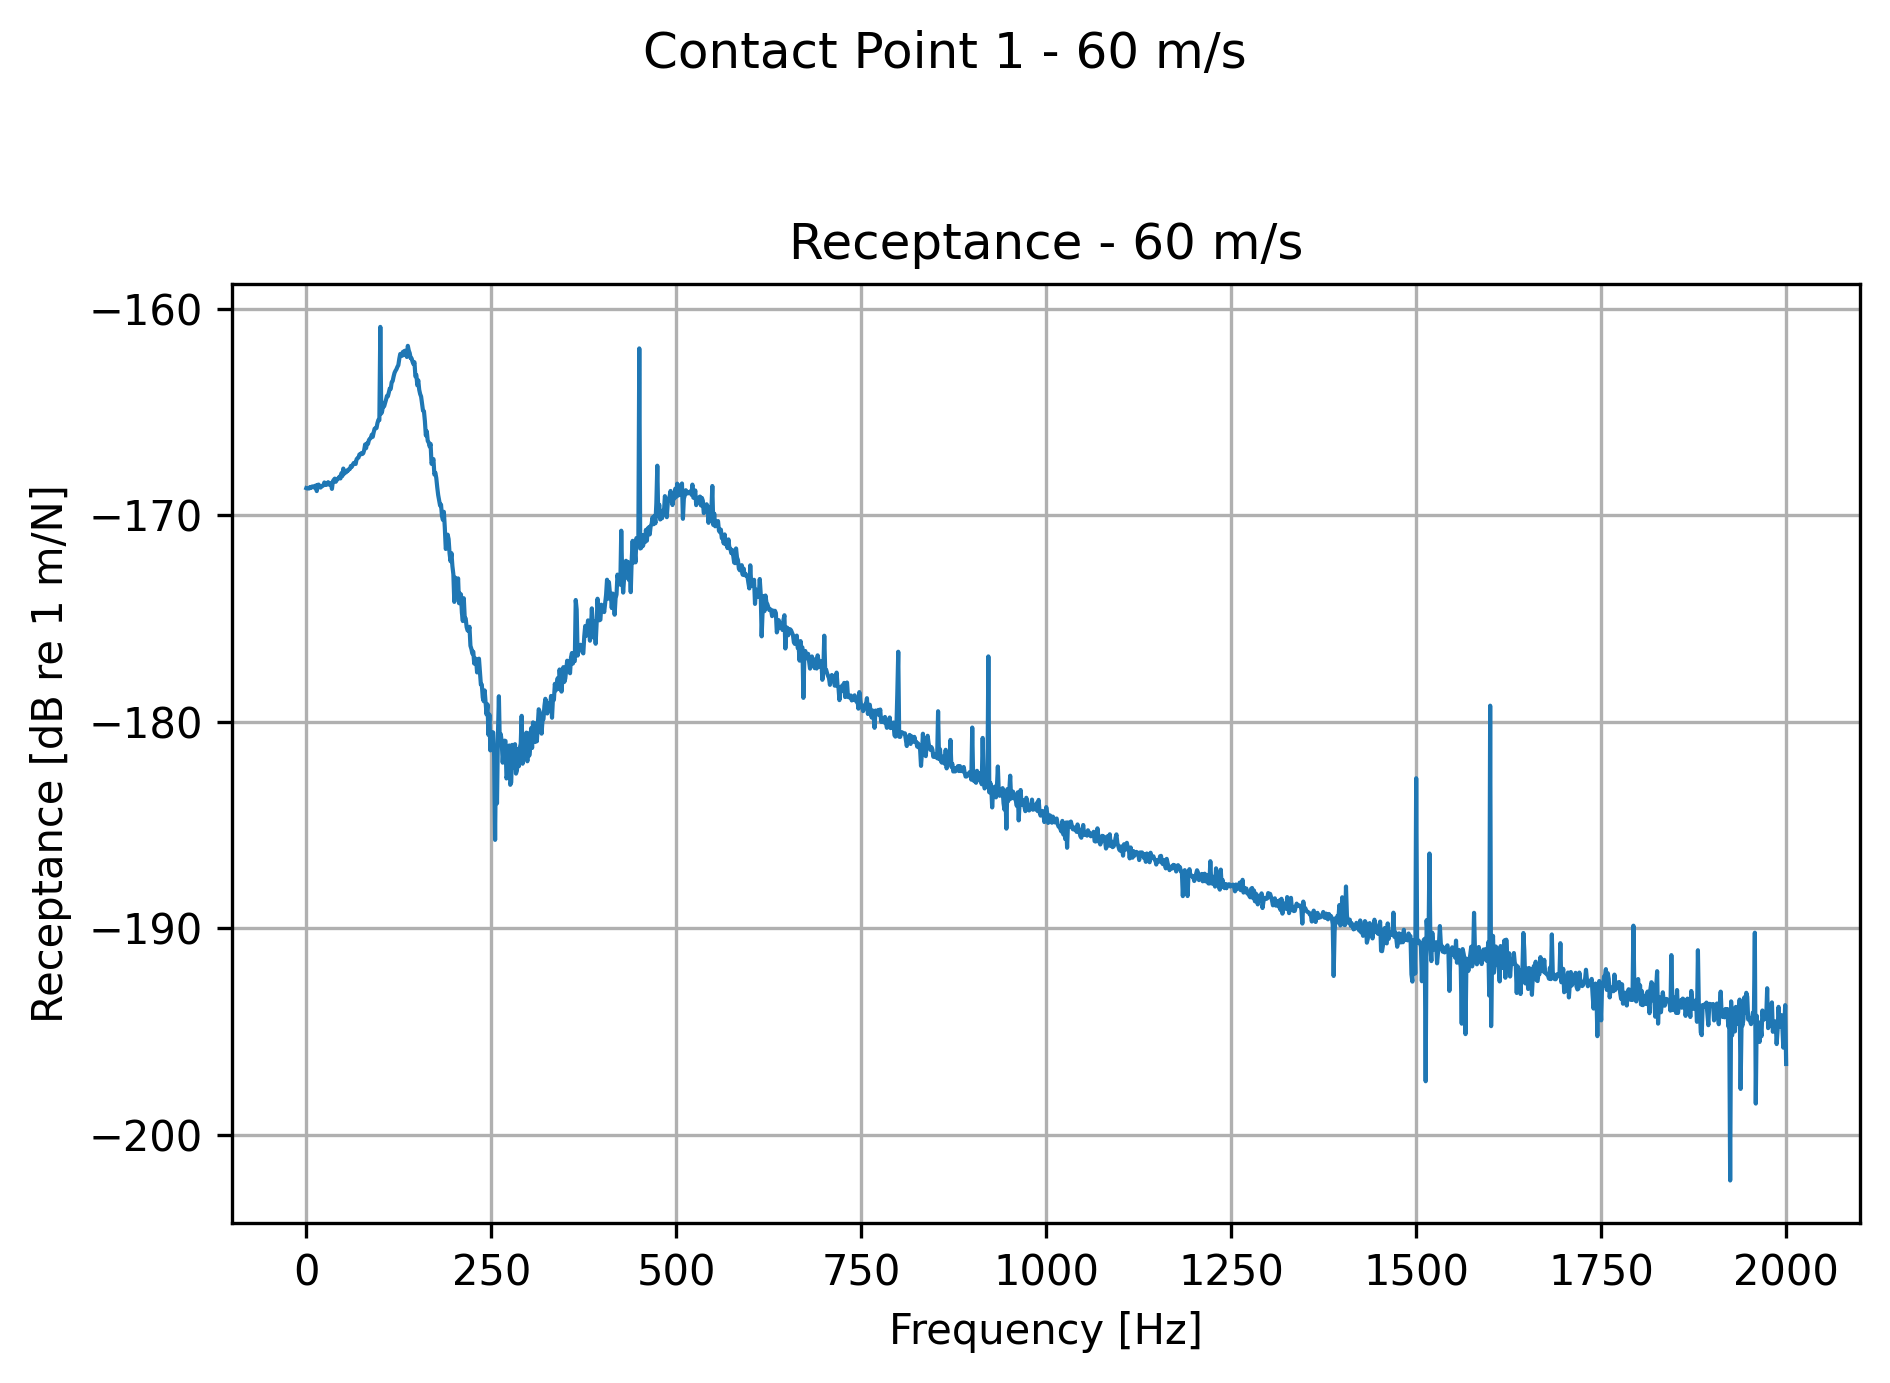
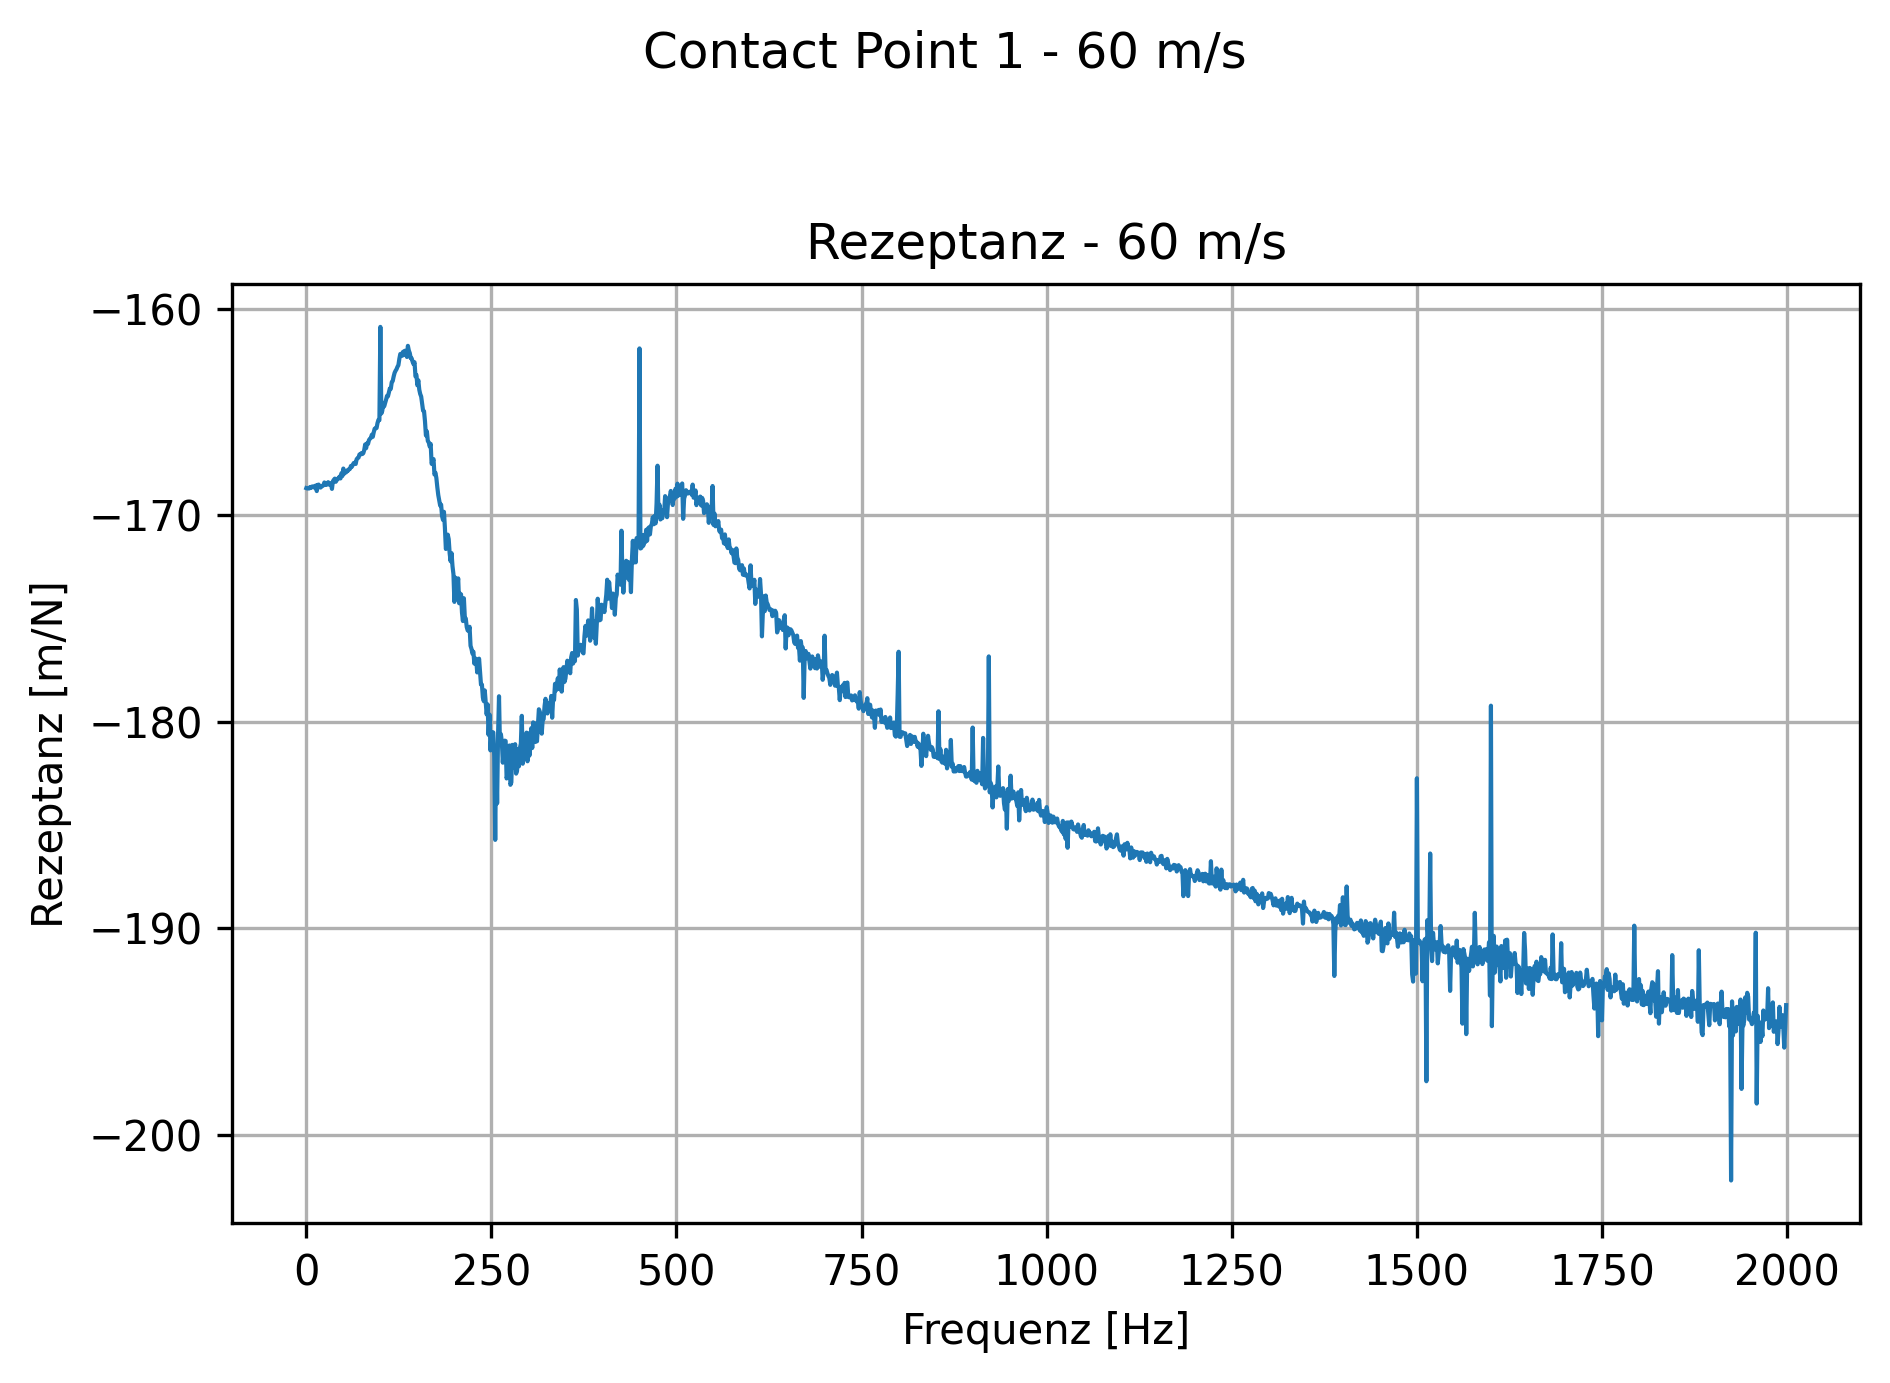
cleaning up

diff --git a/Moving_Force.py b/Moving_Force.py
@@ -16,7 +16,7 @@ Workflow:
 from rolland                        import DiscrPad, Sleeper, Ballast
 from rolland.database.rail.db_rail  import UIC60, NORDBORG  # rail profiles
 from rolland                        import SimplePeriodicBallastedSingleRailTrack
-from rolland.excitation             import ConstantForce
+from rolland.excitation             import RandomForce
 from rolland import(
     PMLRailDampVertic,
     DiscretizationEBBVerticConst,
@@ -26,10 +26,11 @@ from rolland.postprocessing import(
     TDR)
 import numpy as np
 import matplotlib.pyplot as plt
-from scipy.fft import fft, fftfreq
 import os
-from pathlib import Path
 import csv
+from scipy.fft  import fft, fftfreq
+from pathlib    import Path
+
 
 # =============================================================================
 # 0. TESTING PARAMETERS
@@ -39,13 +40,14 @@ starting_position   = 80.0      # Starting position [m]
 num_mount           = 400       # Number of discrete mounting positions
 l_bound             = 40.0      # width of boundary domain
 req_simt            = 1         # Required simulation time [s]
-dt                  = 2.2e-5      # time step [s]
+dt                  = 2.2e-5    # time step [s]
 velocities          = [60]      # Velocities to simulate [m/s]
 # velocities          = [25, 60, 80]      # Velocities to simulate [m/s]
 # velocities          = np.arange(5, 101, 5)  # 5 to 100 m/s in 5 m/s steps
 ramp_fraction       = 0.1       # fraction of total time for ramp up
-force_amplitude     = 65000.0    # Force amplitude [N]
+force_amplitude     = 65000.0   # Force amplitude [N]
 # compare_nordborg     = False     # Compare with Nordborg results
+
 
 # =============================================================================
 # 1. TRACK DEFINITION
@@ -53,27 +55,27 @@ force_amplitude     = 65000.0    # Force amplitude [N]
 # Create a ballasted single rail track model with periodic supports
 track = SimplePeriodicBallastedSingleRailTrack(
     rail    = NORDBORG, # rail profile with parameters according to Nordborg paper
-    # rail        = UIC60,   # UIC60 rail profile
+    # rail    = UIC60,   # UIC60 rail profile
     pad     = DiscrPad(
                 sp = [300e6, 0],    # Pad Stiffness [N/m]
-                dp = [18000, 0],     # Pad Damping [Ns/m]
-                # eta_p = 0.15         # Pad loss factor [-]
+                dp = [18000, 0],    # Pad Damping [Ns/m]
+                # eta_p = 0.15      # Pad loss factor [-]
     ),
     sleeper = Sleeper(ms=150),      # Sleeper mass [kg]
     ballast = Ballast(
                 sb = [150e6, 0],    # Ballast stiffness [N/m]
-                db = [48000, 0],     # Ballast damping [Ns/m]
-                # eta_b = 0.4         # Ballast loss factor [-]
+                db = [48000, 0],    # Ballast damping [Ns/m]
+                # eta_b = 0.4       # Ballast loss factor [-]
     ),
-    num_mount   = num_mount,               # Number of discrete mounting positions
-    distance    = 0.6                      # Distance between sleepers [m]
+    num_mount   = num_mount,        # Number of discrete mounting positions
+    distance    = 0.6               # Distance between sleepers [m]
 )
 
 # =============================================================================
 # 2. SIMULATION SETUP
 # =============================================================================
 # Define boundary conditions (Perfectly Matched Layer absorbing boundary)
-boundary    = PMLRailDampVertic(l_bound = l_bound)  # width of boundary domain
+boundary = PMLRailDampVertic(l_bound = l_bound)  # width of boundary domain
 
 # Output directory
 output_dir = Path('mobility_plots')
@@ -86,27 +88,24 @@ for file in output_dir.glob('*.png'):
 # =============================================================================
 # 3. VELOCITY SWEEP SIMULATION
 # =============================================================================
-# velocities = np.arange(5, 40, 5)  # 5 to 40 m/s in 5 m/s steps
-
-
 for vel in velocities:
     print(f"Computing velocity: {vel} m/s ({vel*3.6:.1f} km/h)")
     
     # Define moving load excitation
-    excitation = ConstantForce(
+    excitation = RandomForce(
         ramp_fraction   = ramp_fraction,
         x_excit         = [starting_position],
         # x_excit         = [starting_position,
-        #                    starting_position + 2.5],    # Starting positions [m]
-        velocity        = float(vel),                   # Velocity [m/s]
-        force_amplitude = force_amplitude                       # [N]
+        #                    starting_position + 2.5],
+        velocity        = float(vel),
+        force_amplitude = force_amplitude
     )
 
     # Discretize domain
     discretization = DiscretizationEBBVerticConst(
-        dt          = dt,  # time step [s]
-        req_simt    = req_simt,
-        track       = track,
+        dt          = dt,           # time step [s]
+        req_simt    = req_simt,     # requested simulation time [s]
+        track       = track,        
         bound       = boundary)
 
     # Solve for deflection
@@ -119,71 +118,52 @@ for vel in velocities:
     # =============================================================================
     # 4. POSTPROCESSING - Frequency Response
     # =============================================================================
-    t = np.linspace(0, discretization.req_simt, 
-                    len(deflection_results.contact_point_deflection[0]))
-    fs = 1 / (t[1] - t[0])
+    t = np.linspace(0, req_simt, len(deflection_results.contact_point_deflection[0]))   # time array
 
-    # Skip only the ramp
-    # ramp_length = excitation.ramp_length
-    ramp_length = 10000  # NOTE: hardcoded for now, change later
+    # cut the ramp part from the results to avoid transient effects in the FFT
+    ramp_length = 10000
     
-    # FFT of force (skip ramp transient)
+    # FFT of force, cut ramp part
     force_fft = fft(deflection_results.force[ramp_length:])
 
     # Process each contact point
-    for i, contact_defl in enumerate(deflection_results.contact_point_deflection):
-        # deflection_fft = fft(contact_defl[ramp_length:] * scipy.signal.windows.tukey(len(contact_defl[ramp_length:]), alpha = 0.1))
-        deflection_fft = fft(contact_defl[ramp_length:])
+    for i, deflection in enumerate(deflection_results.contact_point_deflection):
 
-        # deflection_fft = fft(contact_defl[ramp_length:])
-        freqs = fftfreq(len(t[ramp_length:]), 1/fs)
-        omega = 2 * np.pi * freqs
+        # Fast Fourier Transform of deflection at contact point
+        deflection_fft = fft(deflection[ramp_length:])  # FFT of deflection at contact point, cut ramp part
+        freqs = fftfreq(len(t[ramp_length:]), dt)       # FFT sample frequencies
+        omega = 2 * np.pi * freqs                       # FFT angular sample frequencies
         
         # Calculate FRFs
         mobility = 1j * omega * deflection_fft / force_fft  # [m/s/N]
-        receptance = deflection_fft / force_fft  # [m/N]
+        receptance = deflection_fft / force_fft             # [m/N]
 
         # Filter to 0-2000 Hz
         mask = (freqs >= 0) & (freqs <= 2000)
 
-        # Einzelplots
-        # plt.figure(figsize=(10, 5))
-        # plt.subplot(2, 1, 1)
-        # plt.plot(freqs[mask], np.abs(mobility[mask]), linewidth=1)
-        # plt.xlabel('Frequency [Hz]')
-        # plt.ylabel('Mobility [m/Ns]')
-        # plt.yscale('log')
-        # plt.grid(True)
-        # plt.title(f'Mobility - {vel} m/s')
-
-        # plt.subplot(2, 1, 2)
+        # plot individual velocity
         plt.plot(freqs[mask], 20*np.log10(np.abs(receptance[mask])), linewidth=1)
-        plt.xlabel('Frequency [Hz]')
-        plt.ylabel('Receptance [dB re 1 m/N]')
+        plt.xlabel('Frequenz [Hz]')
+        plt.ylabel('Rezeptanz [m/N]')
+        plt.title(f'Rezeptanz - {vel} m/s')
         plt.grid(True)
-        plt.title(f'Receptance - {vel} m/s')
-
         plt.suptitle(f'Contact Point {i+1} - {vel} m/s')
         plt.tight_layout(rect=[0, 0.03, 1, 0.95])
         plt.savefig(str(output_dir / f'mobility_receptance_v{vel:03d}_wheel{i+1}.png'), dpi=300, bbox_inches='tight')
         plt.close()
 
-        # Sammeln der Receptance für einen Gesamtplot (nur erster Kontaktpunkt)
-        try:
-            all_receptance
-        except NameError:
-            all_receptance = []  # Liste von (vel, freq_array, receptance_array)
-
+        # collect data for overall plot (only first contact point)
+        all_receptance = [] # [vel, freq, mobility, receptance]
         if i == 0:
-            all_receptance.append((vel, freqs[mask], 20*np.log10(np.abs(receptance[mask]))))
+            all_receptance.append((vel, freqs[mask], 20*np.log10(np.abs(mobility[mask])), 20*np.log10(np.abs(receptance[mask]))))
 
-        # Am Ende der letzten Geschwindigkeit: Gesamtplot aller Receptance-Kurven
+        # overall plot for all velocities
         if vel == velocities[-1] and i == 0:
             plt.figure(figsize=(10, 5))
-            for v, freq, receptance in all_receptance:
+            for v, freq, mobility, receptance in all_receptance:
                 plt.plot(freq, receptance, label=f'{v} m/s', linewidth=1)
-                plt.xlabel('Frequency [Hz]')
-                plt.ylabel('Receptance [dB re 1 m/N]')
+                plt.xlabel('Frequenz [Hz]')
+                plt.ylabel('Receptance [dB re m/N]')
                 plt.grid(True)
                 plt.legend()
                 plt.tight_layout()
@@ -206,7 +186,7 @@ for vel in velocities:
 
             plt.figure(figsize=(10, 5))
             plt.plot(freq_interp, receptance_interp, label='Nordborg Data', linewidth=1)
-            for v, freq, receptance in all_receptance:
+            for v, freq, mobility, receptance in all_receptance:
                 if v == 60:
                     plt.plot(freq, receptance, label=f'{v} m/s', linewidth=1)
             plt.xlabel('Frequency [Hz]')
@@ -216,44 +196,41 @@ for vel in velocities:
             plt.tight_layout()
             plt.savefig(str(output_dir / 'receptance_60_Nordborg.png'), dpi=300, bbox_inches='tight')
 
-        
-
     # Optional: Clear memory
     plt.close('all')
 
-# 4.1 Plot deflection over time
-deflection = np.transpose(deflection_results.deflection)
-deflection = deflection[:, :deflection.shape[1] // 2]  # Take only the rail deflection part, drop sleeper part
-resp.plotMatrix(
-    deflection      = deflection, 
-    track           = track,
-    simulation_time = discretization.req_simt,
-)
+    # # 4.1 Plot deflection over time
+    # deflection = np.transpose(deflection_results.deflection)
+    # deflection = deflection[:, :deflection.shape[1] // 2]  # Take only the rail deflection part, drop sleeper part
+    # resp.plotMatrix(
+    #     deflection      = deflection, 
+    #     track           = track,
+    #     simulation_time = discretization.req_simt,
+    # )
 
+    # # 4.2 Calculate frequency response at excitation point
+    # response = resp(results = deflection_results)
 
-# # 4.2 Calculate frequency response at excitation point
-# response = resp(results = deflection_results)
+    # # 4.3 Plot both mobility and receptance in two subplots
+    # resp.plot_mobility_receptance(
+    #     freq=response.freq,
+    #     mob=response.mob,
+    #     rez=response.rez,
+    #     title=f'Frequency Response - {vel} m/s',
+    #     x_label='Frequency [Hz]',
+    #     mob_label='Mobility [m/Ns]',
+    #     rez_label='Receptance [m/N]',
+    #     colors=['b', 'r'],
+    #     plot_type='loglog',
+    # )
 
-# # 4.3 Plot both mobility and receptance in two subplots
-# resp.plot_mobility_receptance(
-#     freq=response.freq,
-#     mob=response.mob,
-#     rez=response.rez,
-#     title=f'Frequency Response - {vel} m/s',
-#     x_label='Frequency [Hz]',
-#     mob_label='Mobility [m/Ns]',
-#     rez_label='Receptance [m/N]',
-#     colors=['b', 'r'],
-#     plot_type='loglog',
-# )
+    # # 4.4 Calculate Track Decay Rate (TDR)
+    # tdr = TDR(results = deflection_results)
 
-# # 4.4 Calculate Track Decay Rate (TDR)
-# tdr = TDR(results = deflection_results)
-
-# # 4.5 Plot Track Decay Rate (TDR)
-# resp.plot([(tdr.freq, tdr.tdr)],
-#     # ['SimplePeriodicBallastedSingleRailTrack'],
-#     title='Track-Decay-Rate',
-#     x_label='f [Hz]',
-#     y_label='TDR [dB/m]',
-#     plot_type='loglog')
+    # # 4.5 Plot Track Decay Rate (TDR)
+    # resp.plot([(tdr.freq, tdr.tdr)],
+    #     # ['SimplePeriodicBallastedSingleRailTrack'],
+    #     title='Track-Decay-Rate',
+    #     x_label='f [Hz]',
+    #     y_label='TDR [dB/m]',
+    #     plot_type='loglog')

diff --git a/rolland/excitation.py b/rolland/excitation.py
@@ -66,8 +66,8 @@ class MovingExcitation(Excitation):
     """Moving excitation class."""
 
 
-class ConstantForce(MovingExcitation):
-    """Constant force excitation class for single or multiple moving loads.
+class RandomForce(MovingExcitation):
+    """Random force excitation class for single or multiple moving loads.
 
     Attributes
     ----------
@@ -75,13 +75,16 @@ class ConstantForce(MovingExcitation):
         Starting position(s) of excitation point(s) :math:`[m]`.
     force_amplitude : float
         Force amplitude per wheel :math:`[N]`.
+    ramp_fraction : float
+        Fraction of the total simulation time used for the force buildup :math:`[-]`.
+    velocity : float
+        Velocity of the moving load (train) :math:`[m/s]`.
     """
-    ramp_fraction = Float(default_value=0.1)  # fraction of total time for ramp up
+    ramp_fraction   = Float(default_value=0.1)  # fraction of total time for ramp up
     force_amplitude = Float(default_value=65000.0)
-    x_excit = Union([List(), Float(default_value = 50.0)])
-    velocity = Float(default_value=27.78)  # default 100 km/h in m/s
+    x_excit         = Union([List(), Float(default_value = 50.0)])
+    velocity        = Float(default_value=27.78)  # default 100 km/h in m/s
     
-
     def validate_excitation(self):
         """Validate excitation parameters."""
 
@@ -91,27 +94,20 @@ class ConstantForce(MovingExcitation):
         force_array = []
         self.ramp_length = int(self.ramp_fraction * n)
         
-        # Linear ramp up for first 10%
+        # Linear ramp up
         for i in range(self.ramp_length):
             force_array.append(self.force_amplitude * (i / self.ramp_length))
             
-        # Constant force with random component for remaining 90%
+        # random force between force_amplitude and 2*force_amplitude
+        constant_part = [self.force_amplitude] * (n - self.ramp_length)
         np.random.seed(42)  # für Reproduzierbarkeit
-        # random_component = np.random.uniform(
-        #     low     = -0.1 * self.force_amplitude,
-        #     high    = 0.1 * self.force_amplitude,
-        #     size    = n - self.ramp_length
-        # )
-        random_component = np.random.uniform(
+        random_part = np.random.uniform(
             low     = 0 * self.force_amplitude,
             high    = 1 * self.force_amplitude,
             size    = n - self.ramp_length
         )
-        constant_part = [self.force_amplitude] * (n - self.ramp_length)
 
-
-        force_array.extend(np.array(constant_part) + random_component)
-        # force_array.extend(np.array(constant_part))
-
+        # concatenating the rampup with the constant and random part
+        force_array.extend(constant_part + random_part)
 
         return force_array

diff --git a/rolland/deflection.py b/rolland/deflection.py
@@ -83,7 +83,7 @@ class DeflectionEBBVertic(Deflection):
         """Calculate force array."""
         t = linspace(0, self.discr.sim_t, self.discr.nt)
         full_force = self.excit.force(t)
-        # Kürze Force-Array auf die relevante Länge (entferne letzten Wert)
+        # cut last value from force array to match number of time steps (nt) used in deflection calculation
         self.force = full_force[:-1]  
 
     def calc_rightside_crank_nicolson(self, u1, u0, excitation_index, t):
@@ -107,7 +107,7 @@ class DeflectionEBBVertic(Deflection):
         """
         # Write excitation force for time step t into force array
         f = zeros(2 * self.discr.nx)
-
+        # Handle multiple excitation points if excitation_index is a list
         if isinstance(excitation_index, list):
             for idx in excitation_index:
                 f[idx] = self.force[t]
@@ -144,15 +144,15 @@ class DeflectionEBBVertic(Deflection):
 
         for t in range(1, self.discr.nt):
             # Calculate current positions based on velocity
-            dx = round((self.excit.velocity * t * self.discr.dt) / self.discr.dx)
-            excitation_now = [idx + dx for idx in self.excitation_indices]
+            dx = round((self.excit.velocity * t * self.discr.dt) / self.discr.dx)   # Calculate how many grid points the load has moved
+            excitation_now = [idx + dx for idx in self.excitation_indices]          # Update excitation indices for current time step
             
             # Calculate right hand side of equation
             b = self.calc_rightside_crank_nicolson(
-                u1=defl[:, t],
-                u0=defl[:, t - 1],
-                excitation_index=excitation_now,
-                t=t-1  # Anpassung des Force-Index
+                u1 = defl[:, t],
+                u0 = defl[:, t - 1],
+                excitation_index = excitation_now,
+                t = t - 1  # Anpassung des Force-Index
             )
 
             # Calculate deflection for time step t
